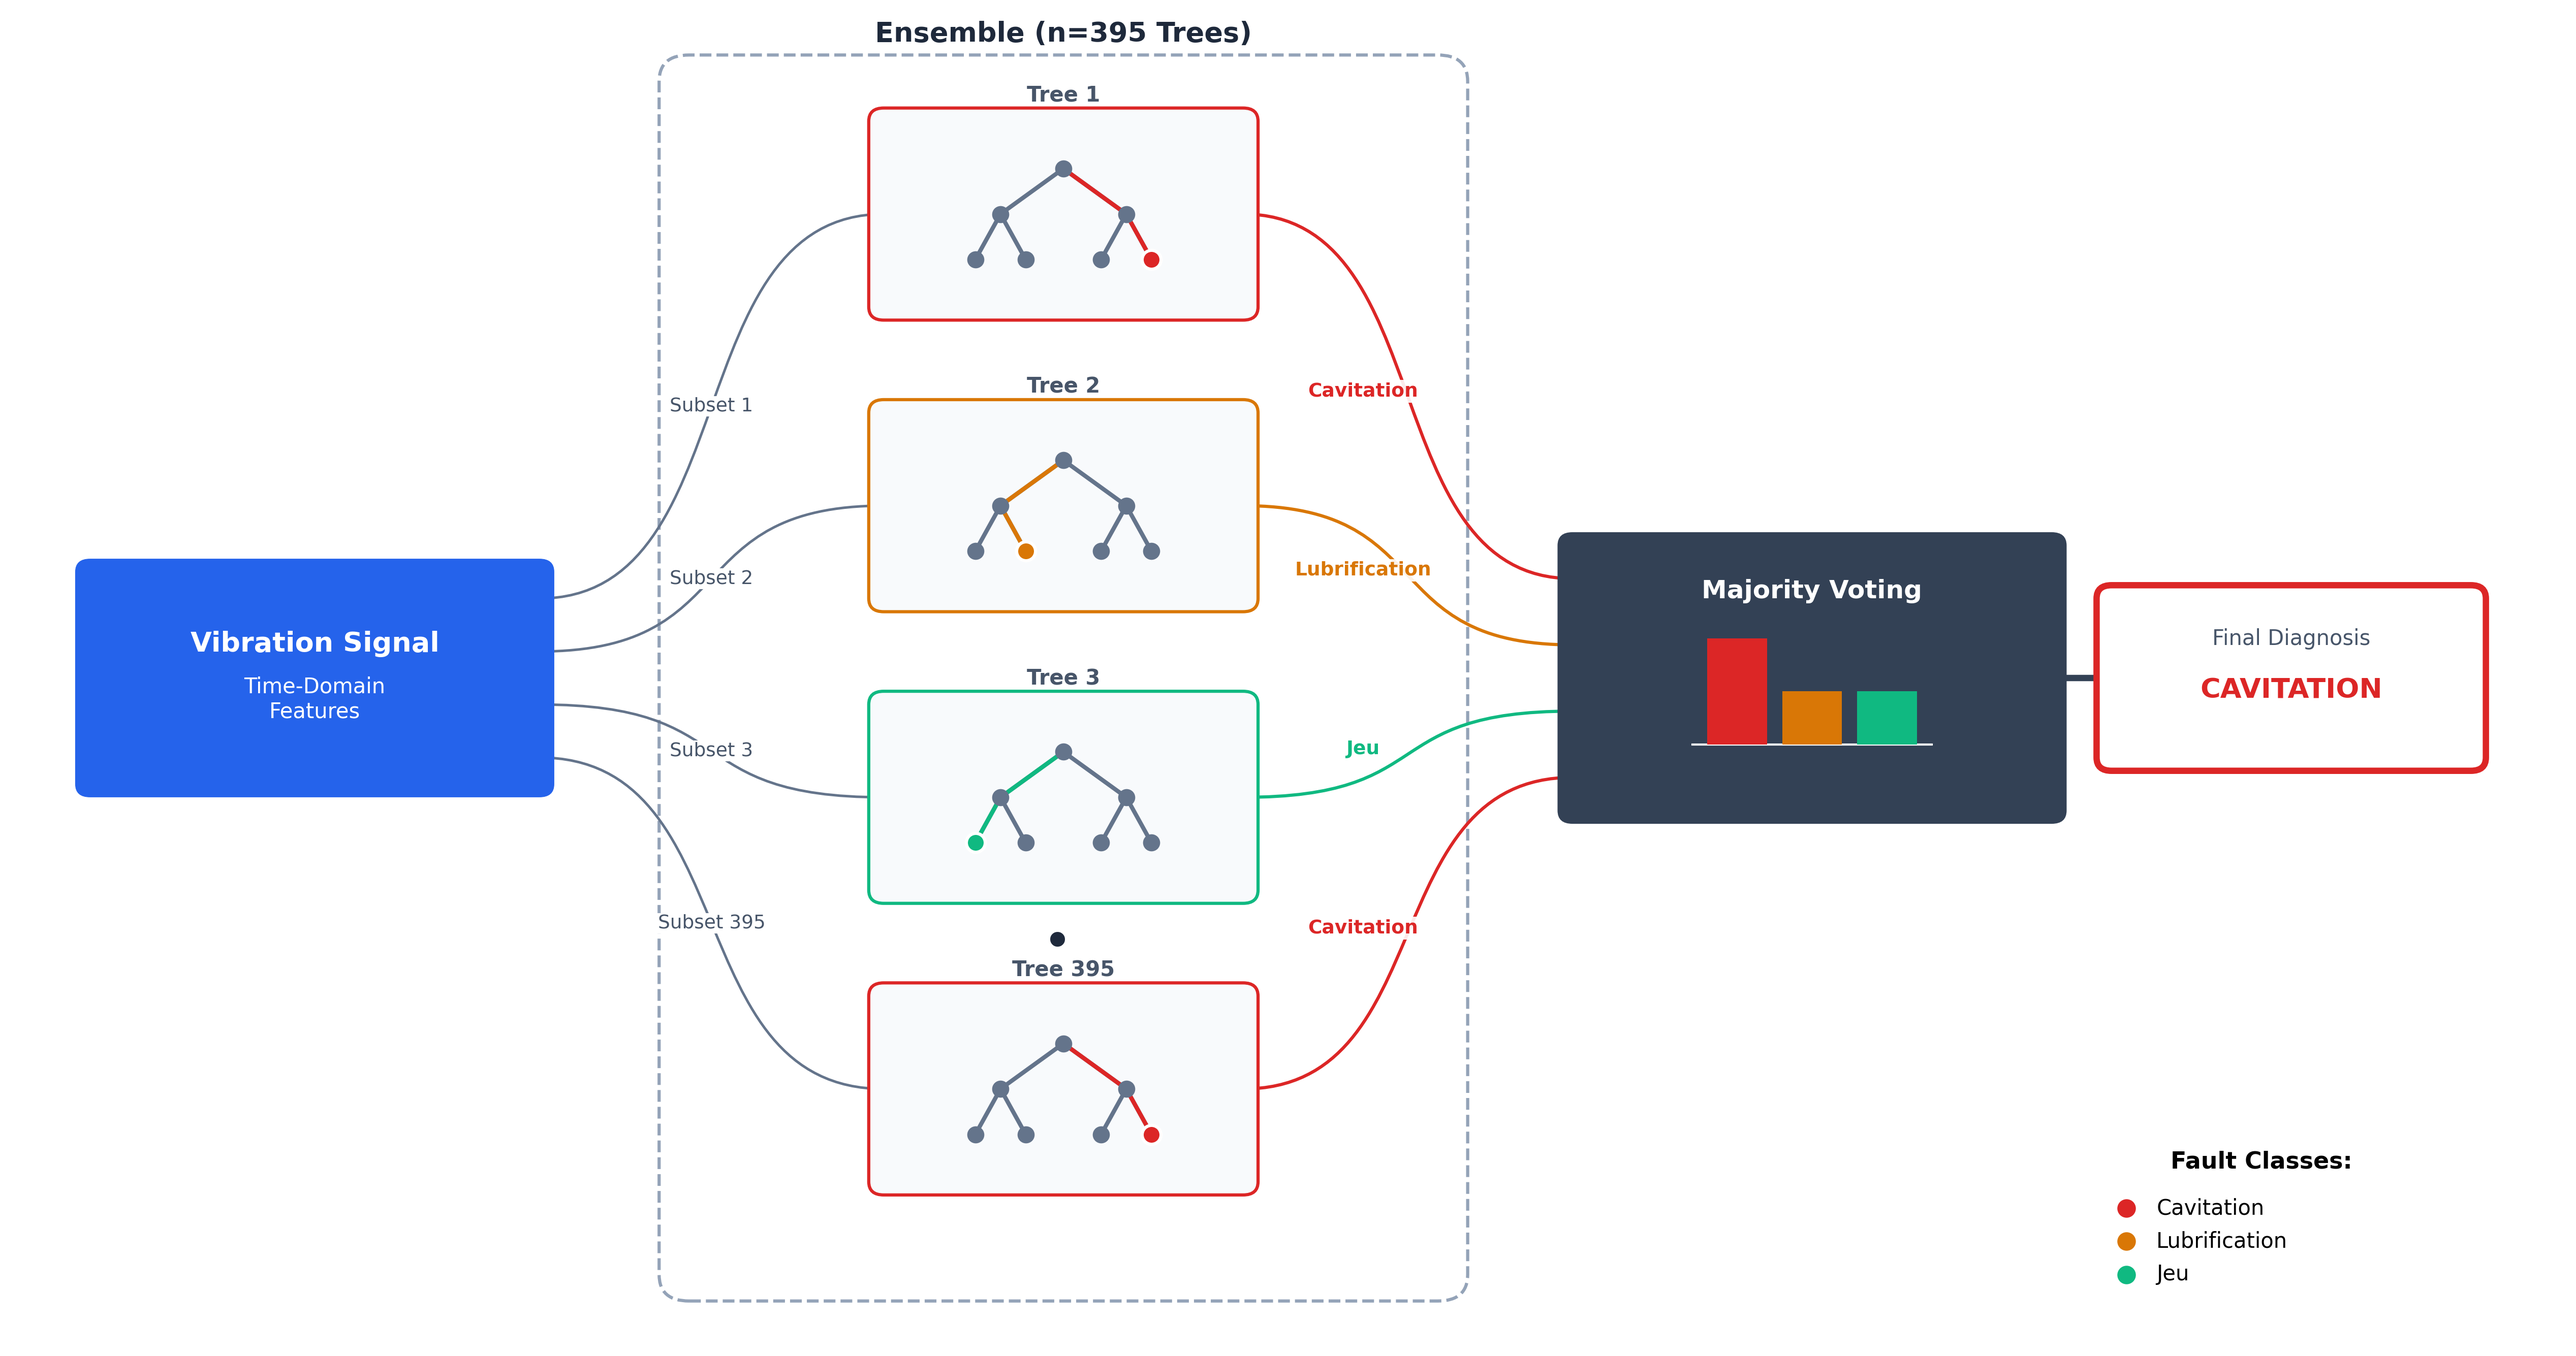
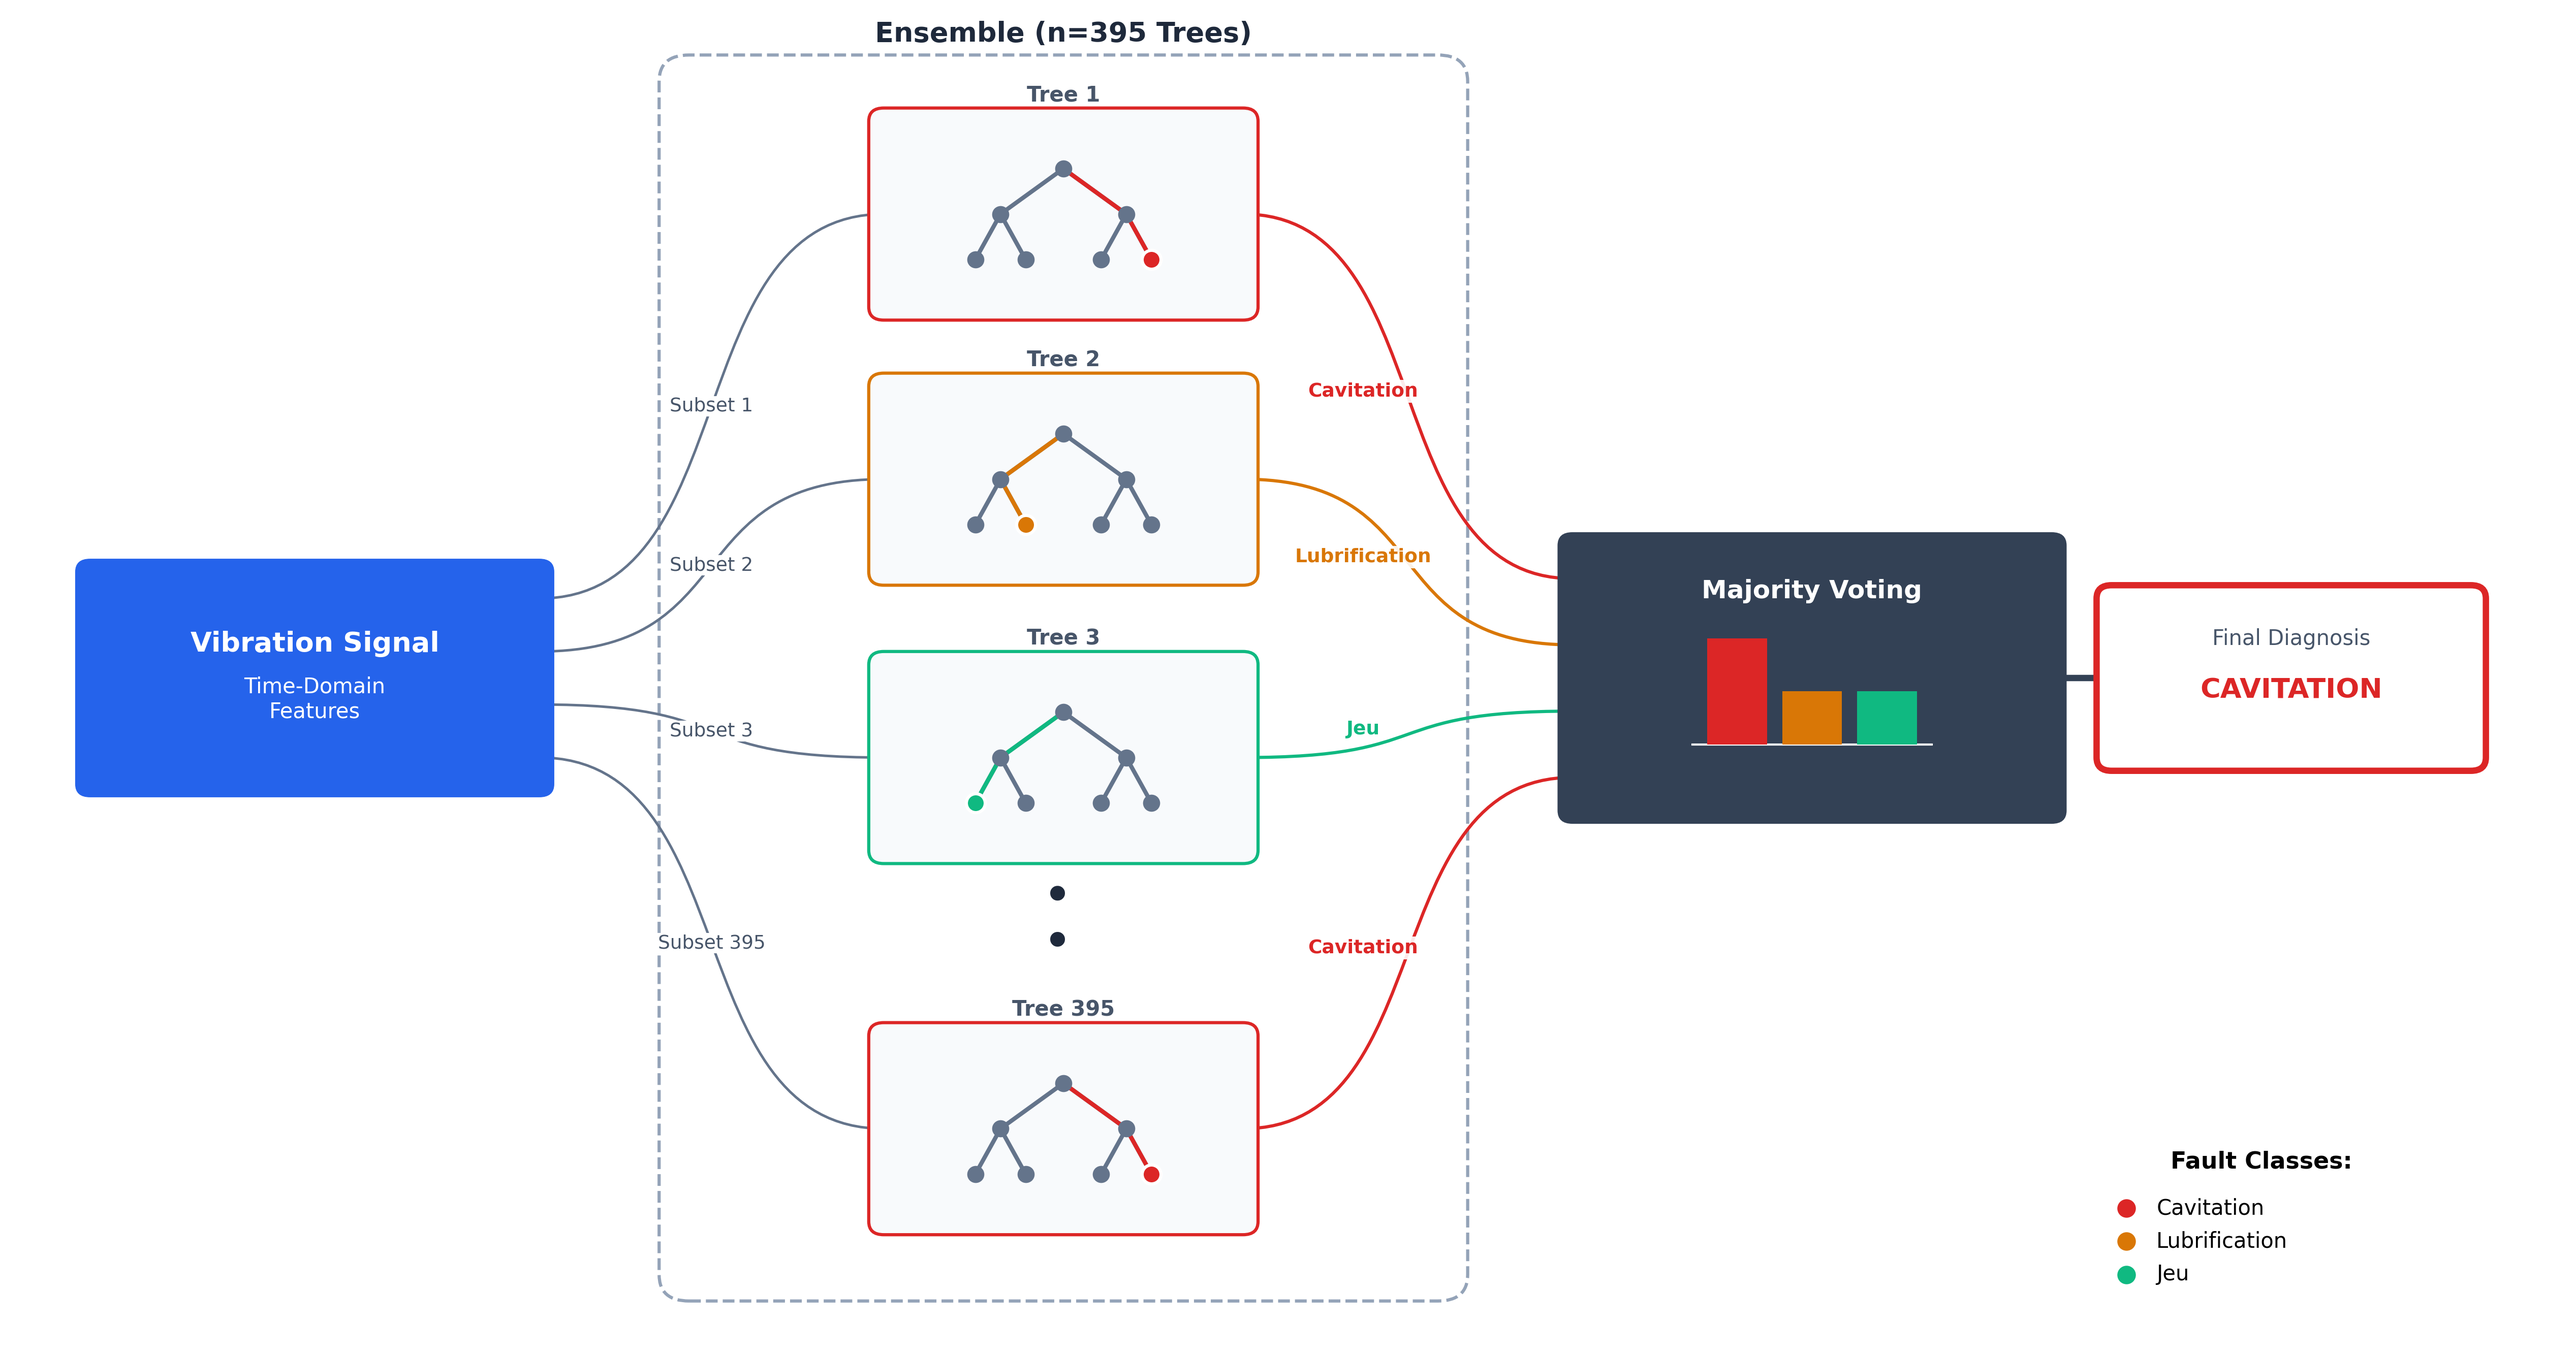
fix: Update tree positions in final corrected system diagram for improved visualization

diff --git a/rf_fig_gemini.py b/rf_fig_gemini.py
@@ -119,9 +119,9 @@ def draw_final_corrected_system(output_filename='Fig_Final_Corrected.png'):
     # Added 'winner_idx' to vary the winning leaf position
     trees = [
         {'name': 'Tree 1',   'y': 8.5, 'pred': 'Cavitation',    'c': COLORS['cavitation'],  'winner_idx': 3}, # Rightmost
-        {'name': 'Tree 2',   'y': 6.3, 'pred': 'Lubrification', 'c': COLORS['lubrication'], 'winner_idx': 1}, # Inner Left
-        {'name': 'Tree 3',   'y': 4.1, 'pred': 'Jeu',           'c': COLORS['jeu'],         'winner_idx': 0}, # Leftmost
-        {'name': 'Tree 395', 'y': 1.9, 'pred': 'Cavitation',    'c': COLORS['cavitation'],  'winner_idx': 3}, # Rightmost
+        {'name': 'Tree 2',   'y': 6.5, 'pred': 'Lubrification', 'c': COLORS['lubrication'], 'winner_idx': 1}, # Inner Left
+        {'name': 'Tree 3',   'y': 4.4, 'pred': 'Jeu',           'c': COLORS['jeu'],         'winner_idx': 0}, # Leftmost
+        {'name': 'Tree 395', 'y': 1.6, 'pred': 'Cavitation',    'c': COLORS['cavitation'],  'winner_idx': 3}, # Rightmost
     ]
 
     vote_x, vote_y = 12.0, 5.0 # Defined here for use in loop
